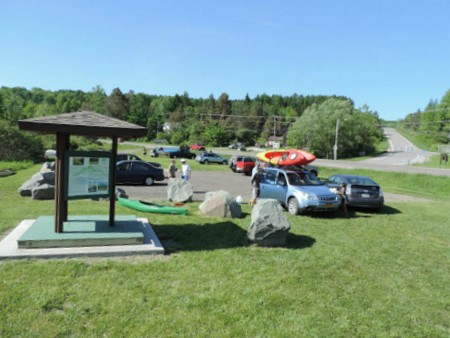
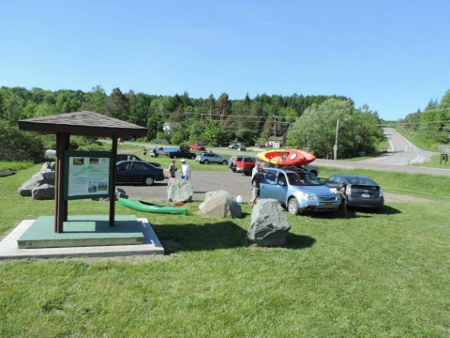
home page images cleaned up

diff --git a/grw_plan/index.html b/grw_plan/index.html
@@ -110,15 +110,22 @@
         <div class="col-md-4 hidden-sm hidden-xs column1">
               <p>
             <img src="images/gen_riv_target.jpg" alt="Genesee River Wilds Target Area Map">
-            Genesee River Watershed and Genesee River Wilds Target Area, with Riverside Multi-Use Trails
+            Genesee River watershed and Genesee River Wilds target area, with Genesee Valley Greenway, Park Road and Finger Lakes Trail in Letchworth State Park, WAG Trail, and other multi-use trails.
               </p>
 
               <br>
 
           <p>
             <img src="images/can_river_acc1.jpg" alt="Genesee River Wilds River Access Site, Caneadea, NY">
-            Genesee River Wilds River Access Site (boat launch on Caneadea Creek at creek's mouth), Caneadea, NY
+            Genesee River Wilds river access site (with boat launch on Caneadea Creek at creek's mouth), Caneadea, NY.  Kiosk by students at SUNY Alfred and parking lot by NYSDOT.  Site plays complementary role as trailhead for Genesee Valley Greenway.
           </p>
+
+          <br>
+
+          <p>
+            <img src="images/wag_trail_bike_dam.jpg" alt="WAG Trail by SUNY Alfred Wellsville Branch Campus">
+            WAG Trail in Wellsville, NY, in section made by BP/ARCO during remediation of former Sinclair Refinery EPA Superfund site.  Improvements by NYSDEC in section further south continue and already have opened WAG Trail from Wellsville to NY/PA state line.
+
         </div>
 
         <div class="col-md-4 col-sm-3 column2">
@@ -127,7 +134,7 @@
           </p>
 
             <p>
-              The <em>Genesee River Wilds Plan</em> of 2016 is the second major edition of a watershed plan for the upper Genesee River from the river’s sources in Potter County, Pennsylvania, to the southern boundary of Letchworth State Park in New York State.  The rudimentary first edition released in 2008 was called "The Genesee River Wilds Project."  This was updated incrementally, but a complete revision has been long overdue.  The new rubric of this 2016 edition represents the greater maturity of the plan's design, support, and implementation.  The mission, strategies, and rationale of both editions are the same.
+              The <em>Genesee River Wilds Plan</em> of 2016 is the second major edition of a watershed plan for the upper Genesee River from the river’s sources in Potter County, PA, to the southern boundary of Letchworth State Park in NY.  The first edition was called "The Genesee River Wilds Project" and was released electronically in 2008.  The web format allowed incremental updates, but a thorough revision has been long overdue.  The rubric of this 2016 edition represents the greater maturity of the plan's design, support, and implementation.  The mission, strategies, and rationale remain the same.
             </p>
 
           <p>
@@ -151,10 +158,15 @@
             </p>
 
               <p>
-                The Genesee River is one of the largest tributaries into Lake Ontario.  The interest of federal, state, non-profit, and other organizations in Lake Ontario represents a major resource for funding conservation of the upper Genesee River.  This funding is relatively untapped because of the limited interest in river conservation among some communities of the upper Genesee River watershed. Forested riparian buffers provide one of the least expensive ways to improve the river's water quality.  Nature parks, trails, and the blueway provide a toehold for expanding the acreage of forested riparian buffers. They also generate community support by providing infrastructure for eco-tourism and other sustainable business.  They also offer the incentive of providing new amenities for recreation, health, quality of life, and outdoor education.  These make local communities more competitive in attracting educated young professionals and graduates from area universities who easily can take their job-creating abilities to other regions where such amenities are already available.
+                The Genesee River is one of the largest tributaries into Lake Ontario.  The river's role in conservation of Lake Ontario represents a key resource for funding conservation of the upper Genesee River.  This resource has been relatively untapped because of institutionalized neglect and limited local interest.
+              </p>
 
               <p>
-                Political and economic leverage is also being generated by connections that the blueway and greenway trails create between the upper Genesee River watershed and Letchworth State Park in NY, Pine Creek Gorge in PA, and other tourism-generating recreational systems. These will integrate the upper Genesee River into the Triple Divide Greenway from Rochester, NY, to Williamsport, PA, and the 400-mile long Genesee-Susquehanna Greenway from Lake Ontario in Rochester, NY, to Chesapeake Bay in Havre de Grace, MD.</p> 
+                Forested riparian buffers provide one of the least expensive ways to improve the river's water quality.  The planned nature parks, trails, and blueway provide a toehold for expanding the acreage of forested riparian buffers. They also generate community support by providing infrastructure for eco-tourism and other sustainable business.  They also offer the incentive of new amenities for recreation, health, quality of life, and outdoor education.  These make local communities more competitive in attracting educated young professionals and graduates from area universities who easily can take their job-creating abilities elsewhere.
+              </p>
+
+              <p>
+                The blueway and greenways also provide significant political and economic leverage by their connections to Letchworth State Park in NY, Pine Creek Gorge in PA, and other tourism-generating recreational systems. This connectivity integrates the upper Genesee River into the Triple Divide Greenway, which is being built by connecting the Genesee Valley Greenway, WAG Trail, Pine Creek Trail, and other multi-use trails from Rochester, NY, to Williamsport, PA.  This trail system is itself part of the planned Genesee-Susquehanna Greenway, which will extend 400 miles from Lake Ontario in Rochester, NY, to Chesapeake Bay in Havre de Grace, MD.</p>
               </p>
 
           <p>
@@ -162,7 +174,7 @@
           </p>
 
             <p>
-              The most dramatic difference between the editions of 2008 and 2016 is the contrast between their contexts.  The intervening years have witnessed exciting progress on the plan's implementation. Sometimes this success has made the magnitude of the work even more overwhelming.  But we now have enough new infrastructure that an increasingly large number of people are sharing in the "enjoy" part of our mission. This is having the intended effect of encouraging them to help us "restore and protect" the Genesee River.  We invite you to join.
+              The most dramatic difference between the editions of 2008 and 2016 is the contrast between their contexts.  The intervening years have witnessed exciting progress on the plan's implementation. Sometimes this success has made the magnitude of the work even more overwhelming.  But we now have enough new infrastructure that an increasing number of people are sharing in the "enjoy" part of our mission. This is having the intended effect of encouraging them to help us "restore and protect" the Genesee River.  We invite you to join.
           </p>
       </div>
 
@@ -196,6 +208,14 @@
       </div>
 
 
+    </div>
+
+    <br>
+
+    <div class="row">
+        <div class="col-md-10 col-sm-8 hidden-xs">
+          <img src="images/forest_floor.jpg"  alt="Forest Floor">
+        </div>
     </div>
 
     <div class="row">
